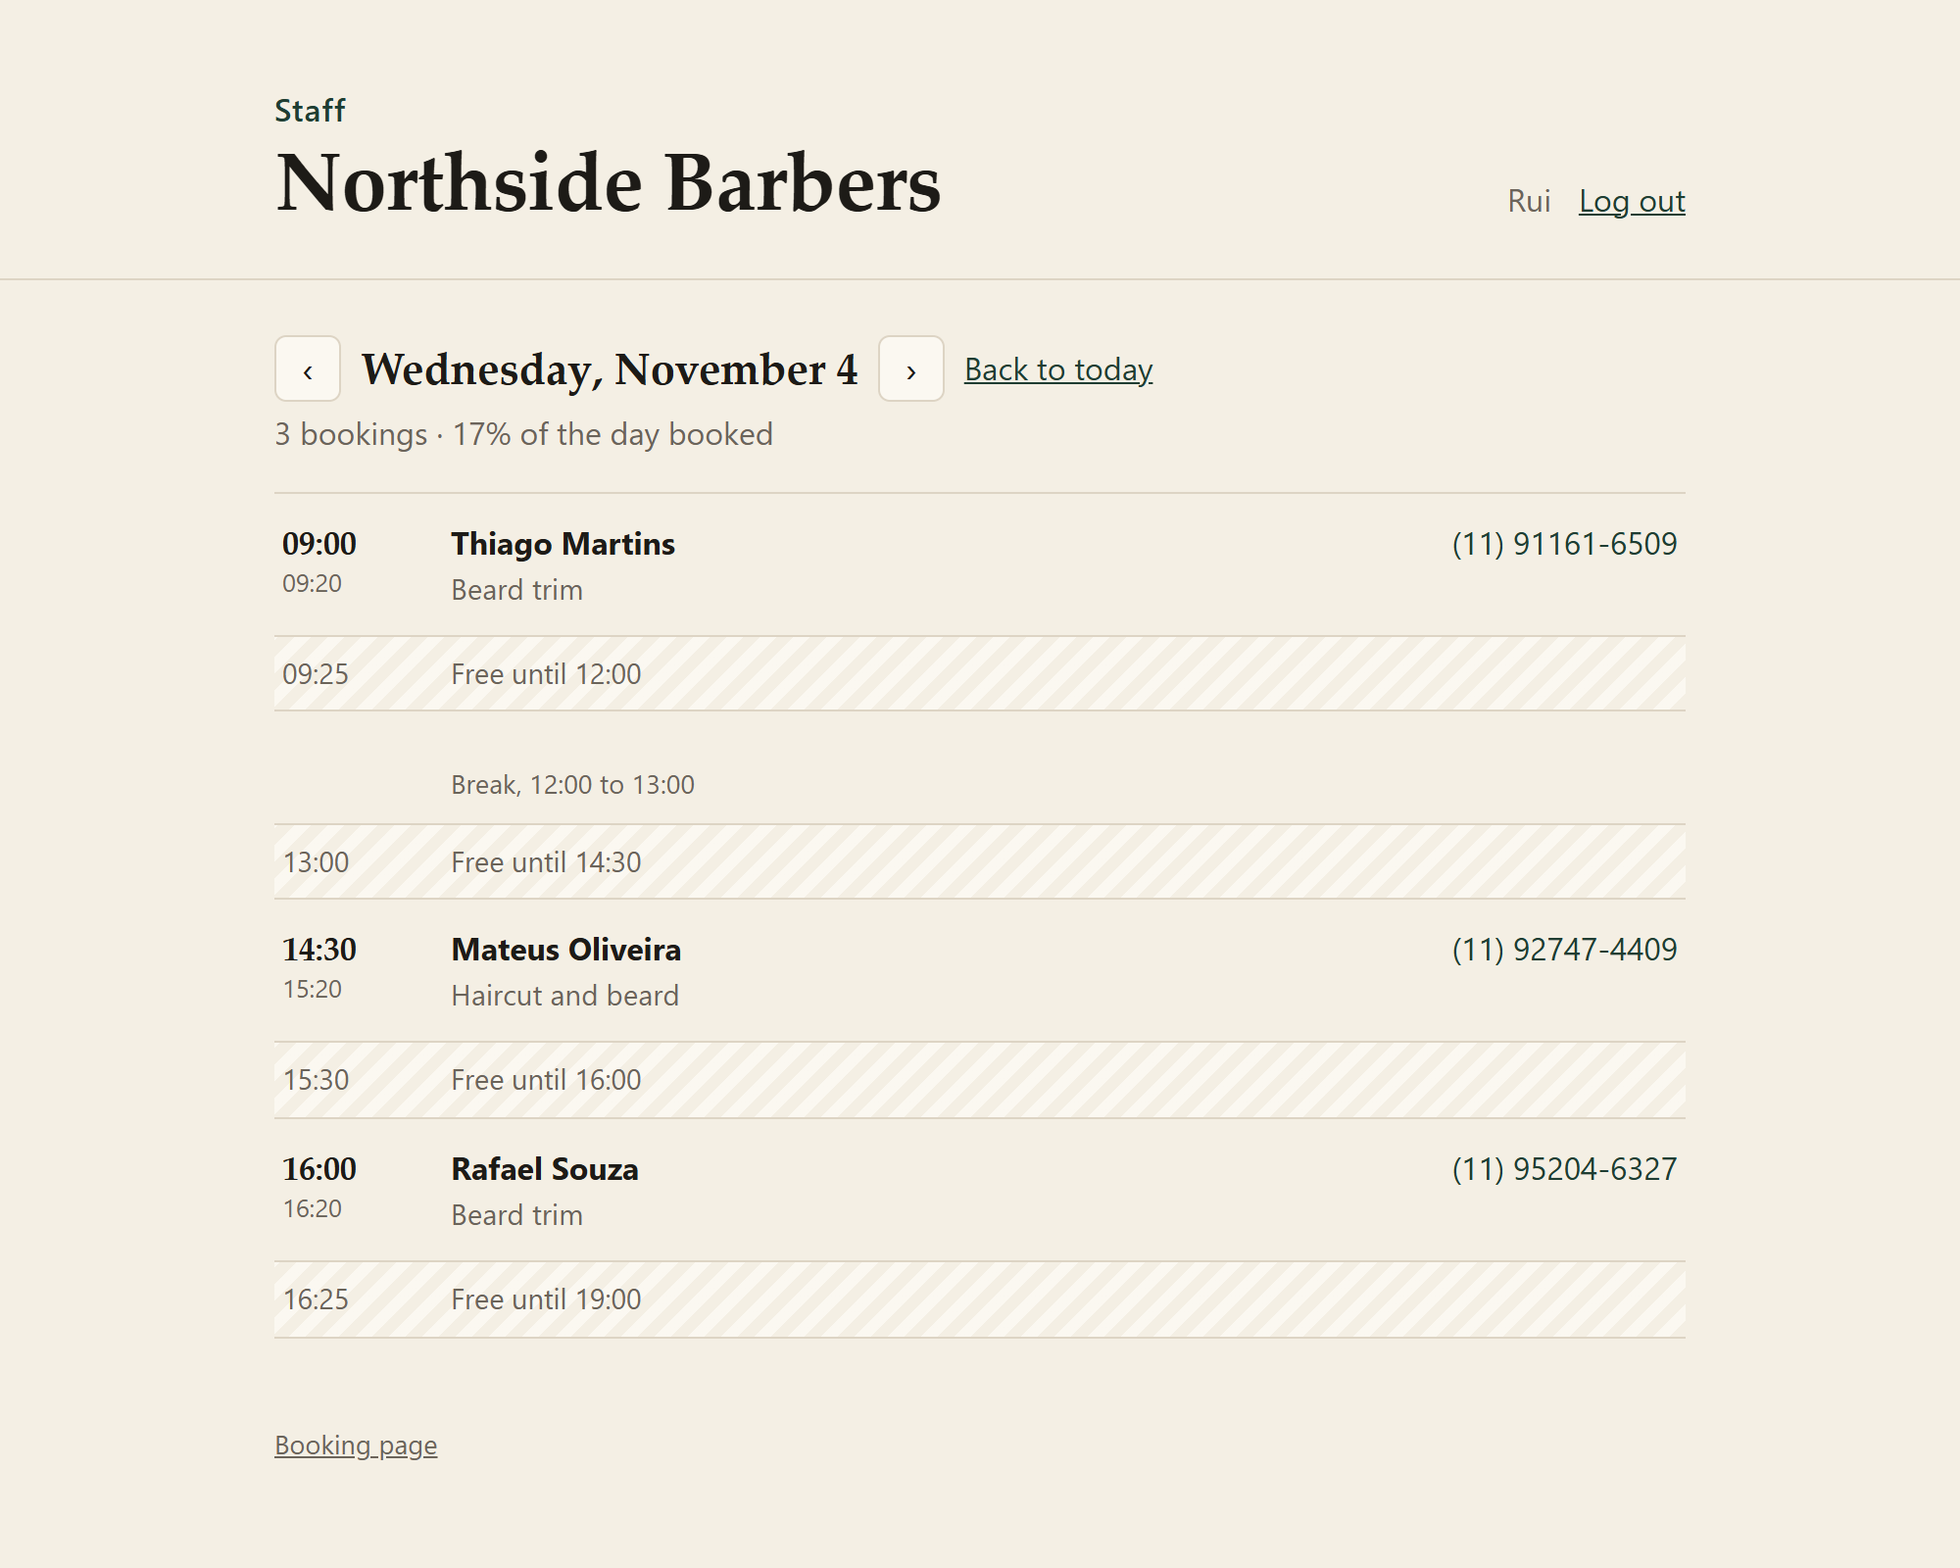
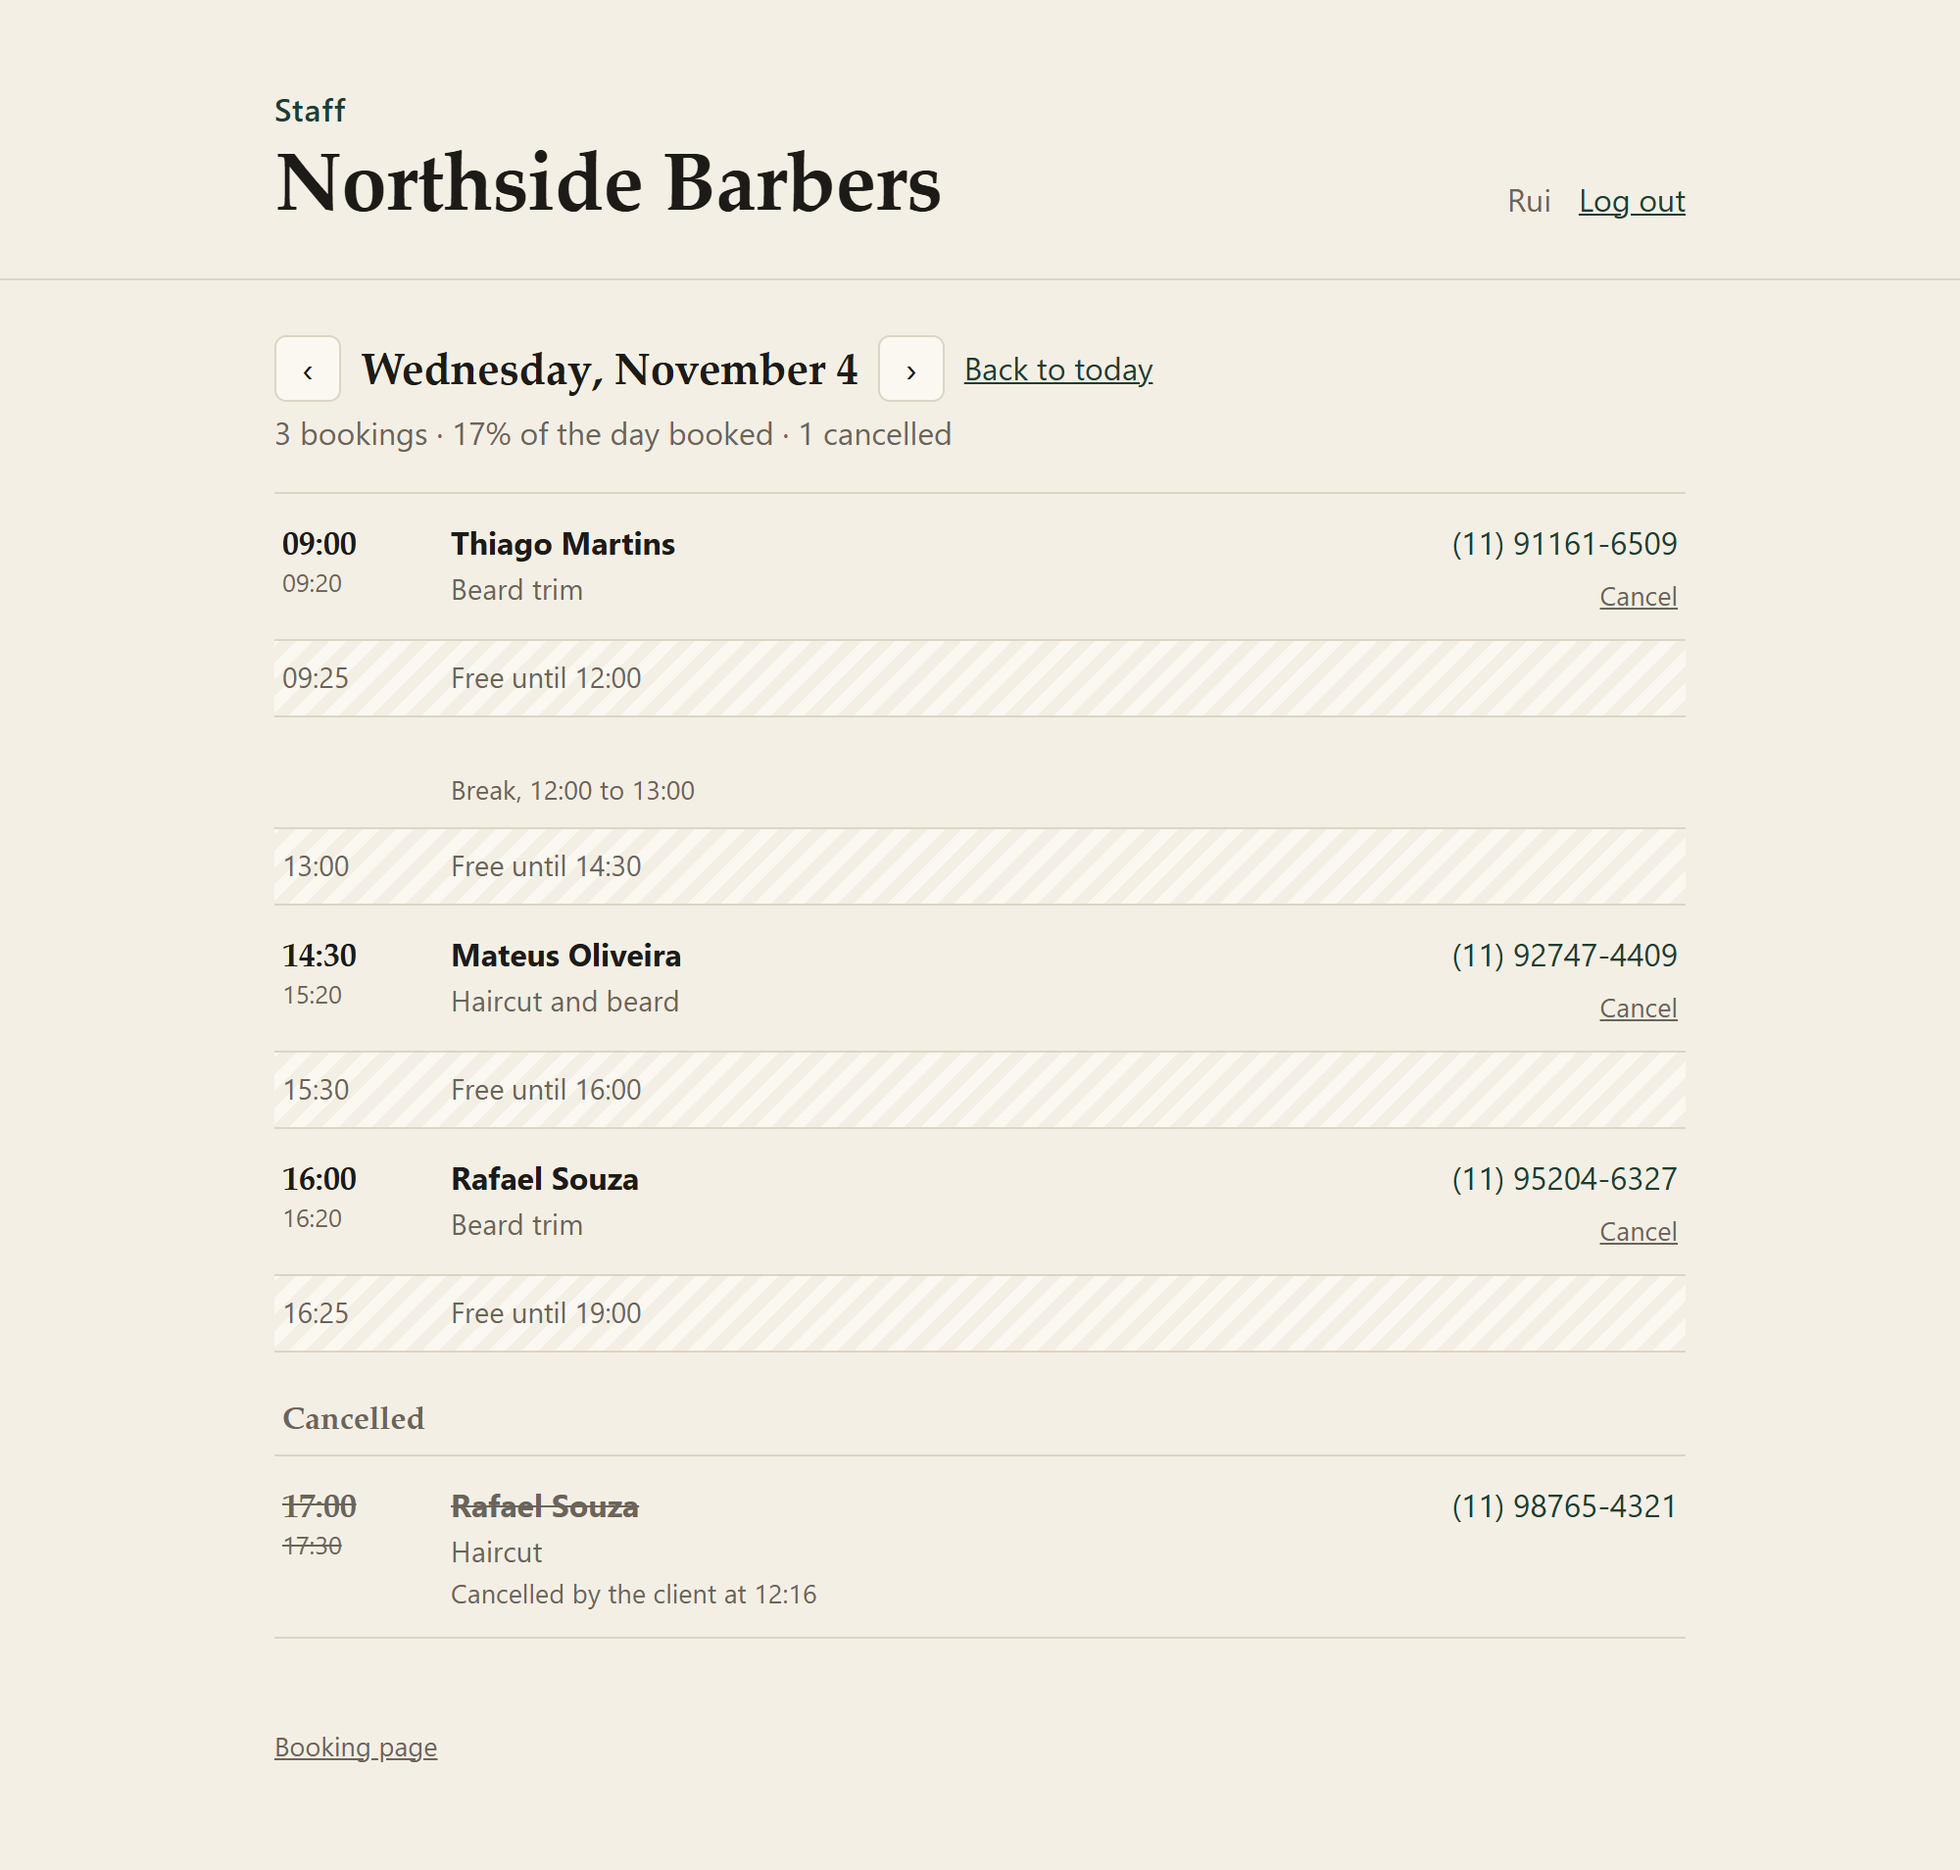
readme: cancelling

diff --git a/README.md b/README.md
@@ -8,7 +8,7 @@ Building a form that saves a date is easy. The hard part is the rules: two clien
 
 ![The booking page: services with price and duration, two weeks of days with how many times are free, the times of the chosen day and the client's details](docs/booking-desktop.png)
 
-Work in progress. What works today: the rules, a REST API on PostgreSQL, the client's booking page and a staff page with login. Cancelling and more than one professional come next.
+Work in progress. What works today: the rules, a REST API on PostgreSQL, the client's booking page and a staff page with login, and cancelling. More than one professional comes next.
 
 ## The booking page
 
@@ -25,9 +25,23 @@ It's plain HTML, CSS and JS served by Spring (`src/main/resources/static`), no b
   <img src="docs/booking-dark.png" alt="The booking page in dark mode" width="420">
 </p>
 
+## Cancelling
+
+The confirmation shows a link the client keeps. It opens a page with the booking and a button to cancel, up to 3 hours before the time (`booking.cancel-until`). After that the page says to call instead, and the staff can still cancel from their side at any time.
+
+<p>
+  <img src="docs/booking-done.png" alt="The confirmation with the cancel link and until when it works" width="420">
+  <img src="docs/cancel-page.png" alt="The cancel page with the booking and the cancel button" width="420">
+</p>
+
+- The link has a random 24 character token. The database keeps only its SHA-256, so a leaked backup can't be used to cancel other people's bookings.
+- The token goes after the `#` in the link. Browsers never send that part to a server, not even in the Referer to another site, so it stays out of server logs.
+- Bookings can't be read by id anymore (`/api/bookings/1`, `/2`, `/3`... would let anyone walk through the clients' names). Only by the token.
+- Cancelling is an `UPDATE ... WHERE status = 'CONFIRMED'`, so two clicks at the same moment can't both cancel, and the time is free again right away (the overlap constraint only looks at confirmed bookings).
+
 ## The staff side
 
-`/admin.html` is where the barber logs in and sees the day: each booking with the client's phone (a tap calls it on the phone), and the free time between them, so it's easy to see where a walk-in fits.
+`/admin.html` is where the barber logs in and sees the day: each booking with the client's phone (a tap calls it on the phone), and the free time between them, so it's easy to see where a walk-in fits. Cancelled bookings show up at the end, saying who cancelled and when.
 
 <p>
   <img src="docs/staff-agenda.png" alt="The staff page: the day's bookings with time, client, service and phone, and the free gaps between them" width="560">
@@ -98,7 +112,8 @@ Client side:
 | `GET /api/availability?serviceId=1&date=2026-11-03` | free times of a day |
 | `GET /api/availability/days?serviceId=1&from=2026-11-02&count=14` | how each day looks, in one go |
 | `POST /api/bookings` | `{"serviceId":1,"start":"2026-11-03T10:00","clientName":"Ana","clientPhone":"(11) 98888-7777"}` |
-| `GET /api/bookings/{id}` | the booking, without the phone |
+| `GET /api/bookings/by-token/{token}` | the booking from the cancel link, without the phone |
+| `POST /api/bookings/by-token/{token}/cancel` | cancels it, 409 if it's too late or already cancelled |
 
 A refused booking answers 409 with the reasons:
 
@@ -145,6 +160,5 @@ The rules don't know about Spring or the database, which is why most of the test
 
 ## What's next
 
-- cancelling, with a deadline (up to X hours before), from a link the client gets
 - several professionals, each with their own calendar
 - editing services and hours from the staff page (today it's only through the API)
